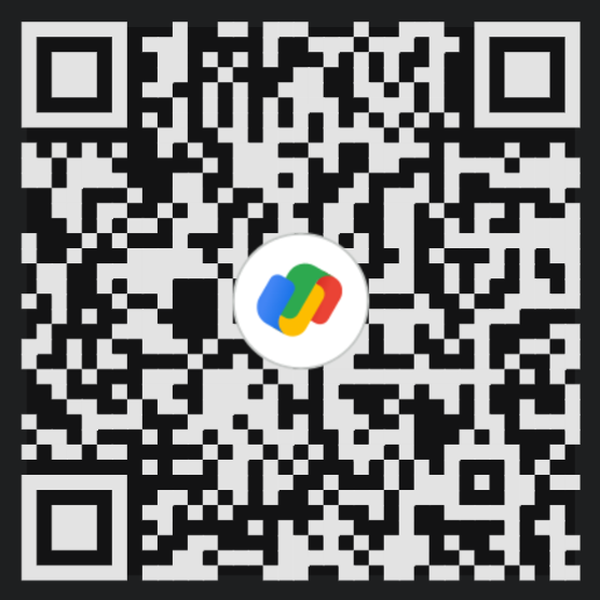
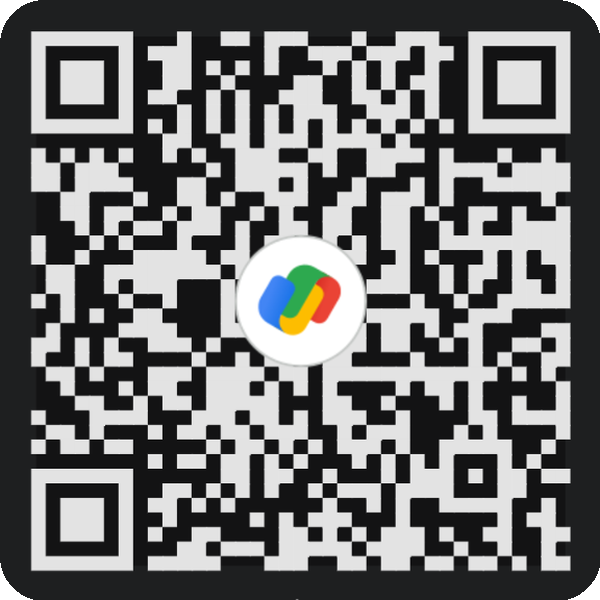
fix(checkout): perfectly center and fit QR scanner images with rounded alpha mask and cache busters

diff --git a/src/pages/CheckoutPage.tsx b/src/pages/CheckoutPage.tsx
@@ -63,8 +63,8 @@ export const UPI_APPS: Record<'gpay' | 'phonepe' | 'paytm' | 'bhim', UPIAppDetai
     upiId: 'priyanshubipin2006@okaxis',
     bankInfo: 'India Post Payment Bank 7386',
     iconUrl: '/assets/icons/payment/gpay.svg',
-    qrUrl: '/assets/qr/gpay_qr.png',
-    fullCardUrl: '/assets/qr/gpay_full_card.png',
+    qrUrl: '/assets/qr/gpay_qr.png?v=20260827_v3',
+    fullCardUrl: '/assets/qr/gpay_full_card.png?v=20260827_v3',
     btnBg: 'bg-[#1a73e8] hover:bg-[#1557b0]',
     deepLink: (amount) => `upi://pay?pa=priyanshubipin2006@okaxis&pn=Priyanshu%20Singh&am=${amount}&cu=INR&tn=Celestia%20Order`
   },
@@ -76,8 +76,8 @@ export const UPI_APPS: Record<'gpay' | 'phonepe' | 'paytm' | 'bhim', UPIAppDetai
     upiId: '7977641125@ybl',
     bankInfo: 'YES Bank • PhonePe Verified',
     iconUrl: '/assets/icons/payment/phonepe.svg',
-    qrUrl: '/assets/qr/phonepe_qr.png',
-    fullCardUrl: '/assets/qr/phonepe_full_card.png',
+    qrUrl: '/assets/qr/phonepe_qr.png?v=20260827_v3',
+    fullCardUrl: '/assets/qr/phonepe_full_card.png?v=20260827_v3',
     btnBg: 'bg-[#5f259f] hover:bg-[#4a1c7d]',
     deepLink: (amount) => `phonepe://pay?pa=7977641125@ybl&pn=Priyanshu%20Singh&am=${amount}&cu=INR&tn=Celestia%20Order`
   },
@@ -89,8 +89,8 @@ export const UPI_APPS: Record<'gpay' | 'phonepe' | 'paytm' | 'bhim', UPIAppDetai
     upiId: '7977641125@ptyes',
     bankInfo: 'Paytm Payments Bank • Verified Merchant',
     iconUrl: '/assets/icons/payment/paytm_badge.svg',
-    qrUrl: '/assets/qr/paytm_qr.png',
-    fullCardUrl: '/assets/qr/paytm_card.png',
+    qrUrl: '/assets/qr/paytm_qr.png?v=20260827_v3',
+    fullCardUrl: '/assets/qr/paytm_card.png?v=20260827_v3',
     btnBg: 'bg-[#002970] hover:bg-[#001c4e]',
     deepLink: (amount) => `paytmmp://pay?pa=7977641125@ptyes&pn=Priyanshu%20Bipin%20Singh&am=${amount}&cu=INR&tn=Celestia%20Order`
   },
@@ -102,8 +102,8 @@ export const UPI_APPS: Record<'gpay' | 'phonepe' | 'paytm' | 'bhim', UPIAppDetai
     upiId: '7977641125@upi',
     bankInfo: 'NPCI BHIM Unified Payments',
     iconUrl: '/assets/icons/payment/bhim.svg',
-    qrUrl: '/assets/qr/bhim_qr.png',
-    fullCardUrl: '/assets/qr/bhim_full_card.png',
+    qrUrl: '/assets/qr/bhim_qr.png?v=20260827_v3',
+    fullCardUrl: '/assets/qr/bhim_full_card.png?v=20260827_v3',
     btnBg: 'bg-[#00796b] hover:bg-[#004d40]',
     deepLink: (amount) => `upi://pay?pa=7977641125@upi&pn=Priyanshu%20Singh&am=${amount}&cu=INR&tn=Celestia%20Order`
   }
@@ -747,18 +747,18 @@ export const CheckoutPage: React.FC = () => {
                       <div className="p-3.5 sm:p-4.5 bg-pearl-50/95 rounded-2xl border border-champagne-200 flex flex-col sm:flex-row items-center justify-between gap-4 sm:gap-5">
                         
                         {/* Authentic Scannable QR Code Box (Optimized for Android & iOS) */}
-                        <div className="flex flex-col items-center text-center space-y-1.5 shrink-0">
+                        <div className="flex flex-col items-center text-center space-y-2 shrink-0">
                           <div
                             onClick={() => setShowQrModal(true)}
-                            className="relative group p-2 sm:p-2.5 bg-white rounded-2xl border border-champagne-300 shadow-sm hover:shadow-md transition-all cursor-pointer overflow-hidden flex items-center justify-center"
+                            className="relative group w-32 h-32 sm:w-36 sm:h-36 rounded-2xl border-2 border-champagne-300/80 shadow-md hover:shadow-lg transition-all cursor-pointer overflow-hidden p-1.5 bg-white flex items-center justify-center"
                             title="Tap to expand full scanner"
                           >
                             <img
                               src={activeUpi.qrUrl}
                               alt={`${activeUpi.name} Scanner QR`}
-                              className="w-28 h-28 sm:w-32 sm:h-32 object-contain rounded-xl select-none"
+                              className="w-full h-full object-contain rounded-xl select-none"
                             />
-                            <div className="absolute inset-0 bg-obsidian/45 opacity-0 group-hover:opacity-100 transition-opacity flex items-center justify-center rounded-2xl">
+                            <div className="absolute inset-0 bg-obsidian/40 opacity-0 group-hover:opacity-100 transition-opacity flex items-center justify-center rounded-2xl">
                               <span className="text-[10px] font-mono font-bold text-white bg-obsidian/85 px-2.5 py-1 rounded-full flex items-center gap-1">
                                 <Maximize2 className="w-3 h-3" /> Full View
                               </span>
@@ -768,7 +768,7 @@ export const CheckoutPage: React.FC = () => {
                           <button
                             type="button"
                             onClick={() => setShowQrModal(true)}
-                            className="text-[10px] font-mono text-obsidian-soft hover:text-gold-dark font-bold flex items-center gap-1 cursor-pointer transition-colors"
+                            className="text-[10.5px] font-mono text-obsidian-soft hover:text-gold-dark font-bold flex items-center gap-1 cursor-pointer transition-colors"
                           >
                             <Scan className="w-3 h-3 text-gold-dark" />
                             <span>Scan with {activeUpi.shortName}</span>
